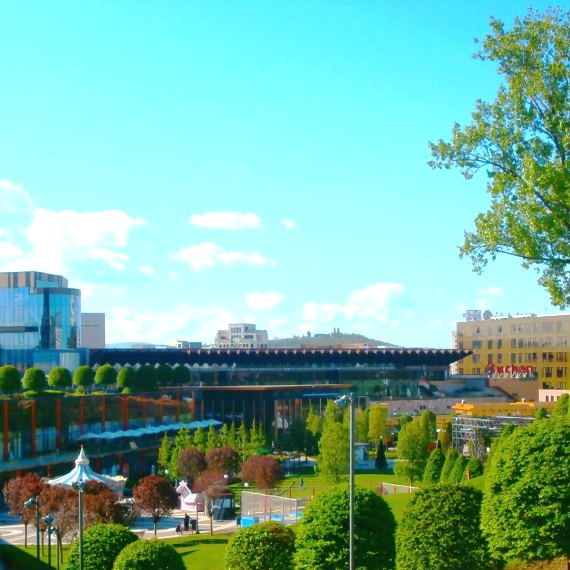
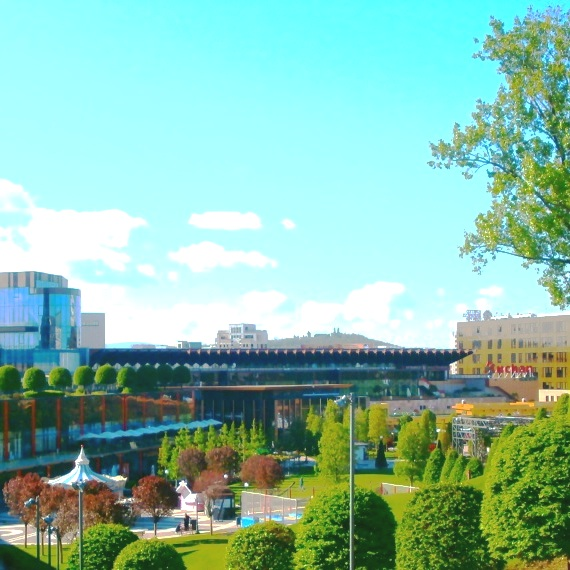
Adjust pictures contrast

diff --git a/css/album.css b/css/album.css
@@ -35,14 +35,15 @@
   display: flex;
   justify-content: center;
   margin: 100px auto;
-  width: 325px;
+  width: 33%;
 }
 
-@media (min-width: 768px) {
+@media (max-width: 768px) {
   .photos .project1 {
     margin-left: auto;
     margin-right: auto;
     margin-top: 120px;
+    width: 325px;
   }
 }
 
@@ -77,7 +78,7 @@
   display: flex;
   justify-content: center;
   margin: 100px auto;
-  width: 325px;
+  width: 33%;
 }
 
 @media (max-width: 768px) {
@@ -85,6 +86,7 @@
     margin-left: auto;
     margin-right: auto;
     margin-top: 350px;
+    width: 325px;
   }
 }
 
@@ -106,7 +108,7 @@
   display: flex;
   justify-content: center;
   margin: 100px auto;
-  width: 325px;
+  width: 33%;
 }
 
 @media (max-width: 768px) {
@@ -114,6 +116,7 @@
     margin-left: auto;
     margin-right: auto;
     margin-top: 350px;
+    width: 325px;
   }
 }
 

diff --git a/index.html b/index.html
@@ -340,7 +340,7 @@
             </div>
         </div>
         <h4 class="text-center" style="color:yellow; margin-top: 80px;">
-            Photo for the Blog community!</h4>
+            Photos for the Blog community!</h4>
     </div>
 
     <footer class="footer-container">

diff --git a/css/cameras.css b/css/cameras.css
@@ -224,7 +224,7 @@
 }
 
 #camera2 {
-  width: 350px;
+  width: 351px;
   height: 410px;
   border-radius: 15px;
   background: blue;
